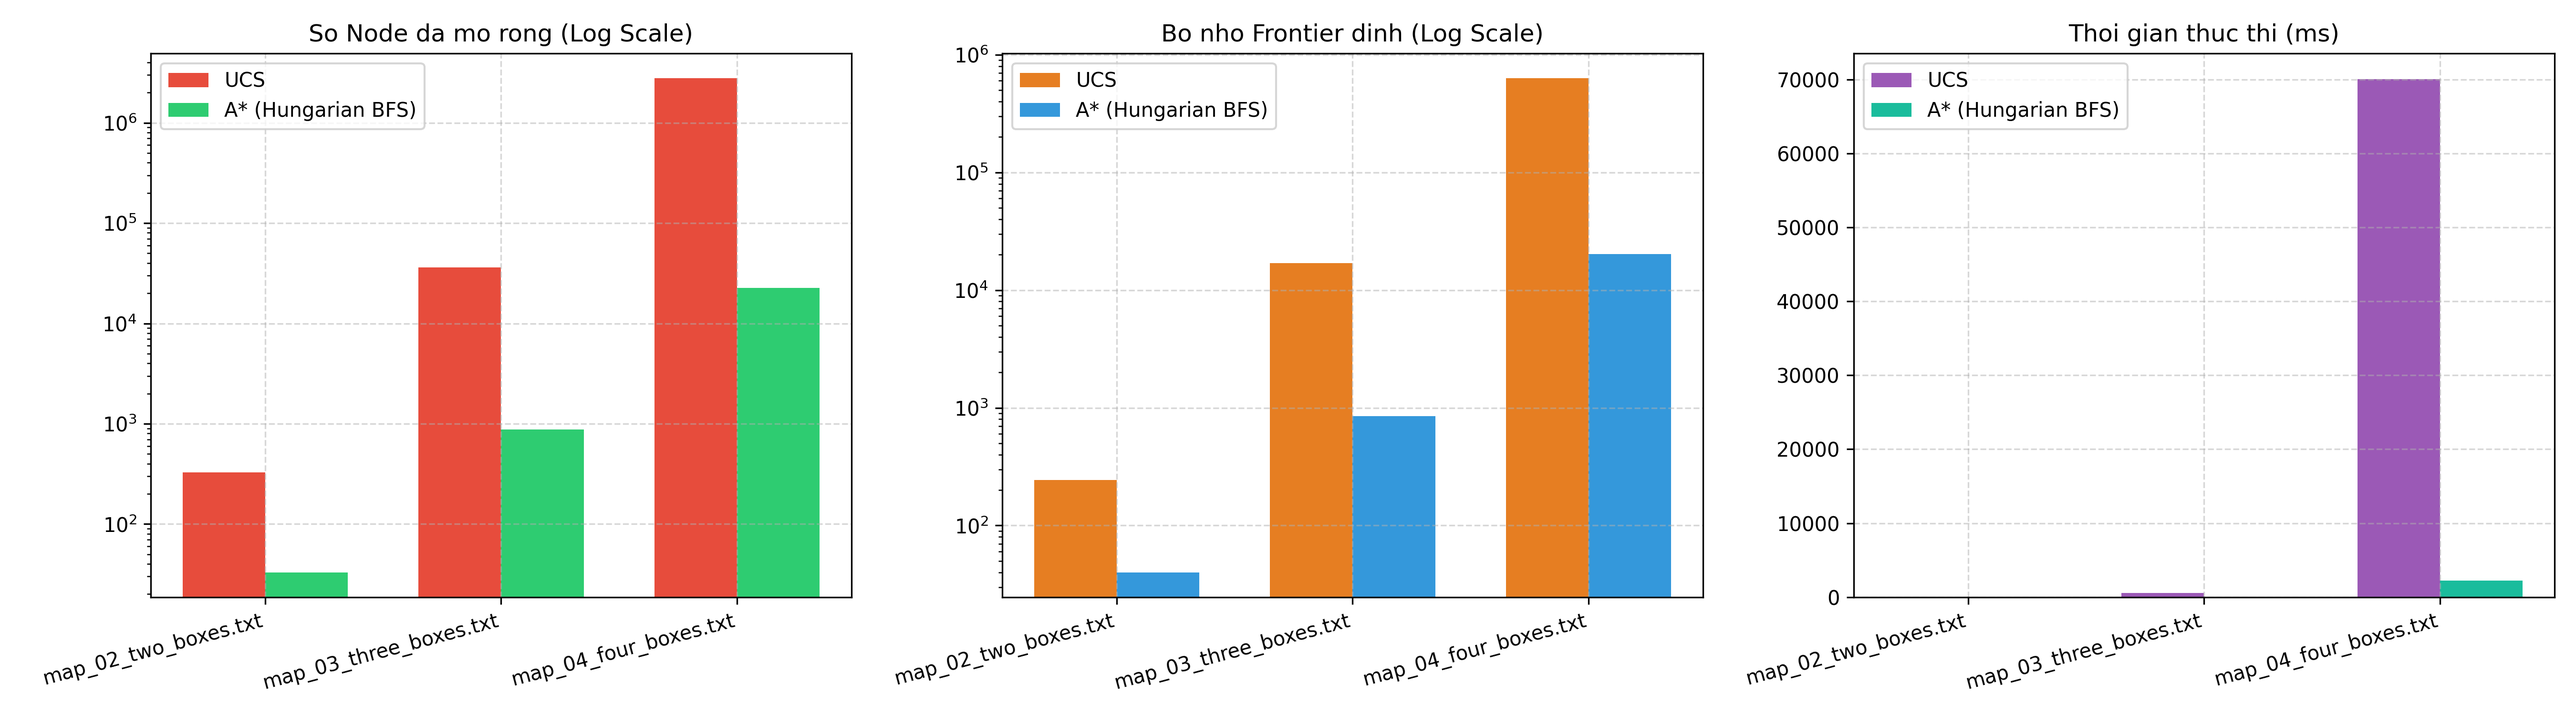
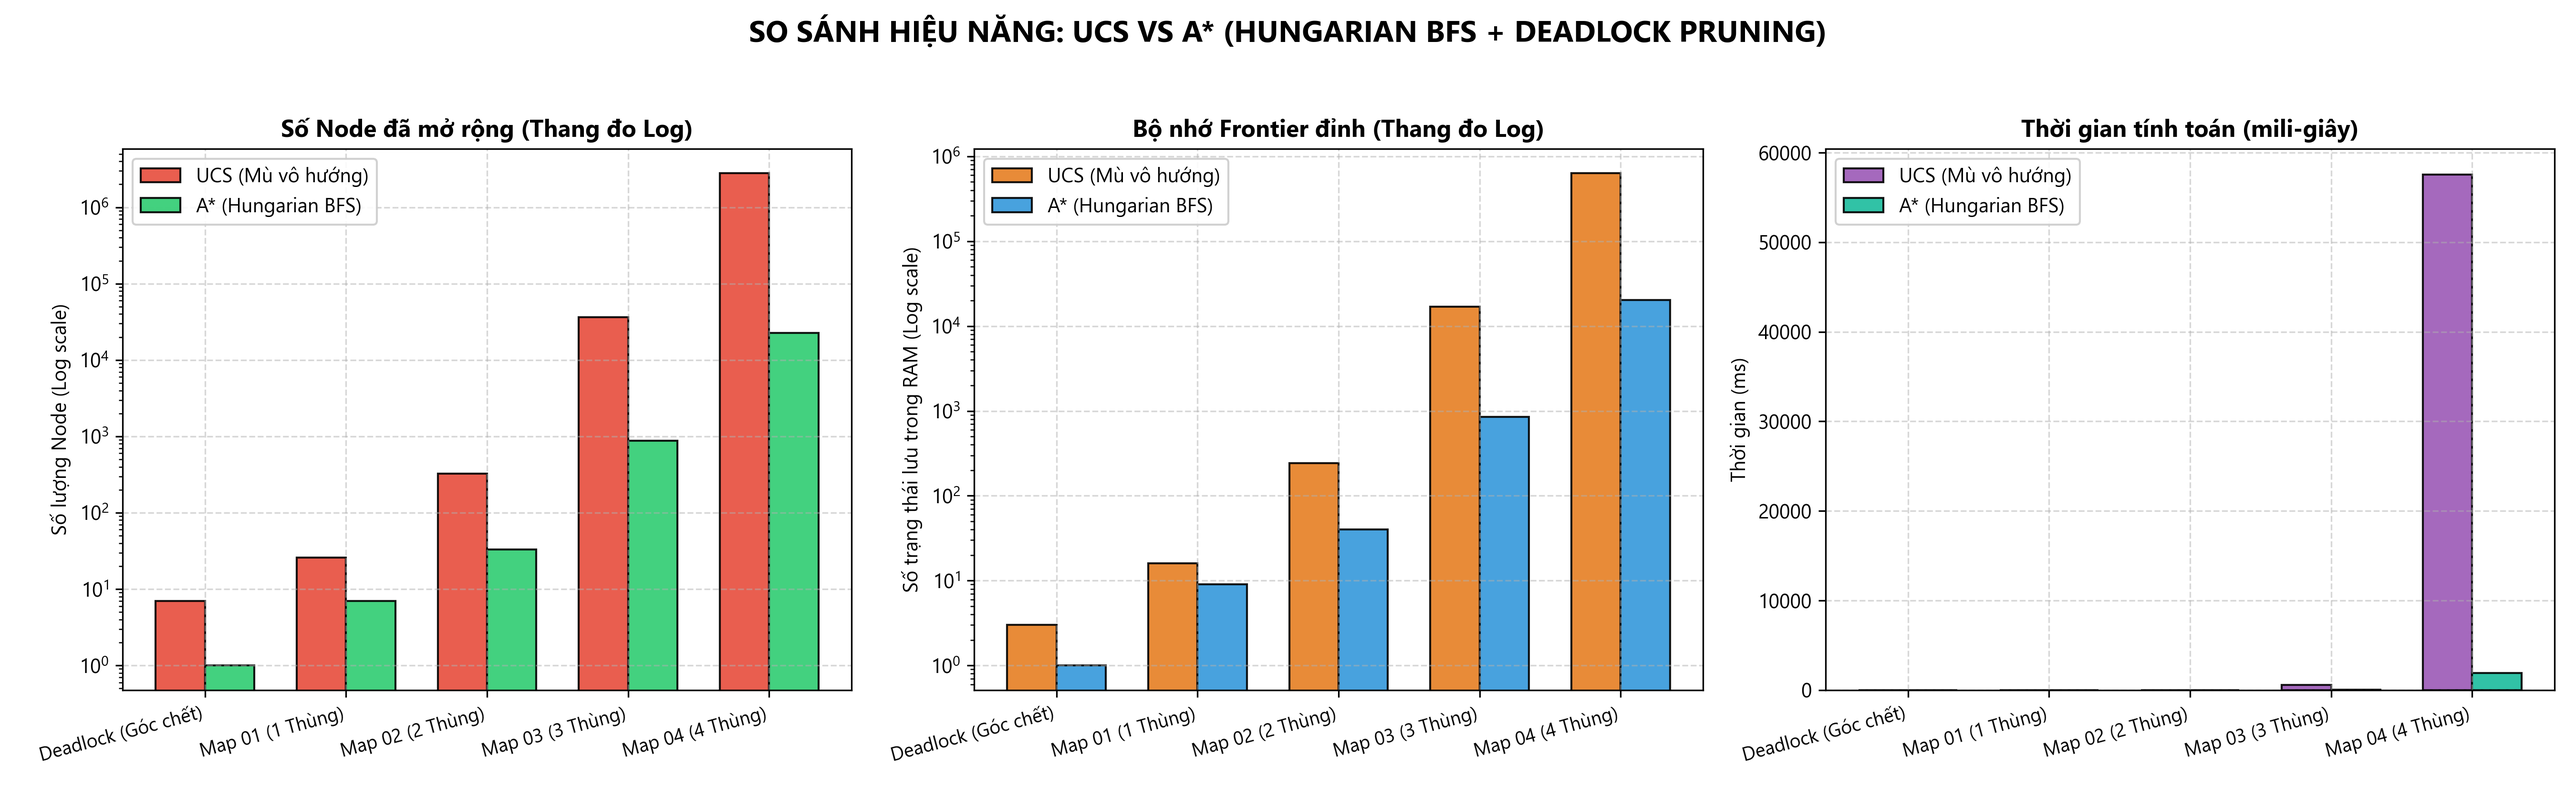
feat: add benchmarking and heuristic verification experiments with visualization charts and map data

diff --git a/experiments/verify_heuristic.py b/experiments/verify_heuristic.py
@@ -1,6 +1,6 @@
 """
 Module: experiments/verify_heuristic.py
-Mo ta: Thuc nghiem kiem chung tinh dang tin (Admissibility) va nhat quan (Consistency) cua ham Heuristic Hungarian BFS.
+Mo ta: Thuc nghiem kiem chung tinh dang tin (Admissibility) va nhat quan (Consistency) cua Heuristic Hungarian BFS.
 """
 
 import os
@@ -8,6 +8,12 @@ import sys
 import csv
 from collections import deque
 from typing import Dict, List, Tuple
+import matplotlib.pyplot as plt
+import numpy as np
+
+# Cau hinh font tieng Viet co dau cho Matplotlib
+plt.rcParams['font.sans-serif'] = ['Segoe UI', 'Arial', 'Calibri', 'DejaVu Sans']
+plt.rcParams['axes.unicode_minus'] = False
 
 if hasattr(sys.stdout, 'reconfigure'):
     try:
@@ -23,8 +29,7 @@ from search.astar import astar_search
 from search.heuristic import SokobanHeuristic
 
 
-def verify_heuristic_on_map(map_file: str, max_transitions_to_test: int = 2000) -> Dict:
-    # Kiem chung Admissibility va Consistency tren mot ban do cu the
+def verify_heuristic_on_map(map_file: str, max_transitions_to_test: int = 2000) -> Tuple[Dict, List[float], List[float], List[float]]:
     map_name = os.path.basename(map_file)
     print(f"\n{'='*70}")
     print(f"[*] KIEM CHUNG HEURISTIC TREN BAN DO: {map_name}")
@@ -34,34 +39,42 @@ def verify_heuristic_on_map(map_file: str, max_transitions_to_test: int = 2000) 
         init_state, walls, goals, r, c = parse_map(map_file)
     except Exception as e:
         print(f"[-] Bo qua {map_name} do loi: {e}")
-        return None
+        return None, [], [], []
 
     if len(init_state.boxes_pos) < len(goals):
-        return None
+        return None, [], [], []
 
     problem = SokobanProblem(init_state, walls, goals)
     heuristic = SokobanHeuristic(problem)
 
-    # 1. Kiem chung tinh Admissibility
+    # 1. Kiem chung tinh Admissibility doc theo lo trinh toi uu
     h_start = heuristic.calculate(init_state)
     actions, cost_star, _ = astar_search(problem)
 
     if actions is None:
-        return None
+        return None, [], [], []
 
     admissible_violations = 0
     curr_state = init_state
     remaining_cost = cost_star
 
-    # Duyet doc theo loi giai toi uu de so sanh h(s) voi h*(s)
+    path_h_values = []
+    path_h_star_values = []
+
     for act in actions:
         h_curr = heuristic.calculate(curr_state)
+        path_h_values.append(h_curr)
+        path_h_star_values.append(remaining_cost)
+
         if h_curr > remaining_cost:
             admissible_violations += 1
         curr_state, step_cost = problem.get_successor(curr_state, act)
         remaining_cost -= step_cost
 
     h_goal = heuristic.calculate(curr_state)
+    path_h_values.append(h_goal)
+    path_h_star_values.append(0)
+
     is_goal_zero = (h_goal == 0.0)
     is_admissible = (admissible_violations == 0) and is_goal_zero and (h_start <= cost_star)
 
@@ -70,6 +83,7 @@ def verify_heuristic_on_map(map_file: str, max_transitions_to_test: int = 2000) 
     visited = {init_state}
     transitions_tested = 0
     consistent_violations = 0
+    delta_h_list = []
     max_delta_h = -float("inf")
     min_delta_h = float("inf")
 
@@ -86,11 +100,11 @@ def verify_heuristic_on_map(map_file: str, max_transitions_to_test: int = 2000) 
                 continue
 
             delta_h = h_s - h_next
+            delta_h_list.append(delta_h)
             max_delta_h = max(max_delta_h, delta_h)
             min_delta_h = min(min_delta_h, delta_h)
             transitions_tested += 1
 
-            # Kiem tra dieu kien nhat quan: h(s) - h(s') <= c(s, a, s') = 1
             if delta_h > step_c + 1e-6:
                 consistent_violations += 1
 
@@ -106,17 +120,17 @@ def verify_heuristic_on_map(map_file: str, max_transitions_to_test: int = 2000) 
     print(f"   - Chi phi toi uu h*(S0)        : {cost_star}")
     print(f"   - Heuristic uoc luong h(S0)    : {h_start}")
     print(f"   - h(Goal) = 0                  : {'DUNG (0.0)' if is_goal_zero else 'SAI'}")
-    print(f"   - So trang thai da test        : {len(actions)}")
+    print(f"   - So trang thai kiem tra       : {len(actions) + 1}")
     print(f"   - Ket luan Admissibility       : {'THOA MAN (PASS)' if is_admissible else 'VI PHAM (FAIL)'}")
 
     print(f"\n2. TINH CONSISTENCY (Nhat quan):")
-    print(f"   - So buoc chuyen tiep da test  : {transitions_tested:,}")
+    print(f"   - So buoc chuyen tiep kiem tra : {transitions_tested:,}")
     print(f"   - Delta h toi da (h(s) - h(s')): {max_delta_h:.2f} (Yeu cau <= 1.0)")
     print(f"   - Delta h toi thieu            : {min_delta_h:.2f}")
-    print(f"   - So vi pham                   : {consistent_violations}")
+    print(f"   - So lan vi pham               : {consistent_violations}")
     print(f"   - Ket luan Consistency         : {'THOA MAN (PASS)' if is_consistent else 'VI PHAM (FAIL)'}")
 
-    return {
+    summary = {
         "Map": map_name,
         "h_start": h_start,
         "h_star": cost_star,
@@ -125,6 +139,39 @@ def verify_heuristic_on_map(map_file: str, max_transitions_to_test: int = 2000) 
         "Max_Delta_h": round(max_delta_h, 2),
         "Consistency": "PASS" if is_consistent else "FAIL"
     }
+    return summary, path_h_values, path_h_star_values, delta_h_list
+
+
+def plot_verification_charts(path_h, path_h_star, all_deltas, results_dir):
+    fig, axes = plt.subplots(1, 2, figsize=(14, 5.5))
+    fig.suptitle('KIỂM CHỨNG TOÁN HỌC HEURISTIC HUNGARIAN BFS (TIẾNG VIỆT CÓ DẤU)', fontsize=14, fontweight='bold', y=0.98)
+
+    # Bieu do 1: Admissibility doc lo trinh toi uu (h(s) <= h*(s))
+    steps = list(range(len(path_h)))
+    axes[0].plot(steps, path_h_star, label='Chi phí thực tế còn lại: h*(s)', color='#e74c3c', marker='o', linewidth=2.5)
+    axes[0].plot(steps, path_h, label='Ước lượng Heuristic: h(s)', color='#27ae60', marker='s', linewidth=2, linestyle='--')
+    axes[0].fill_between(steps, path_h, path_h_star, color='#2ecc71', alpha=0.2, label='Vùng Admissible hợp lệ (h ≤ h*)')
+    axes[0].set_title('Kiểm chứng Admissibility: h(s) ≤ h*(s)', fontsize=12, fontweight='bold')
+    axes[0].set_xlabel('Số bước đi trên lộ trình tối ưu', fontsize=10)
+    axes[0].set_ylabel('Giá trị Heuristic / Chi phí thực tế', fontsize=10)
+    axes[0].legend(frameon=True, facecolor='white', framealpha=0.9)
+    axes[0].grid(True, linestyle='--', alpha=0.5)
+
+    # Bieu do 2: Consistency phan phoi Delta h (h(s) - h(s') <= 1)
+    if all_deltas:
+        axes[1].hist(all_deltas, bins=15, color='#3498db', edgecolor='black', alpha=0.85, label='Phân phối thực tế của Δh')
+        axes[1].axvline(x=1.0, color='#e74c3c', linestyle='--', linewidth=2.5, label='Ngưỡng cận trên: c(s, a, s\') = 1.0')
+        axes[1].set_title('Kiểm chứng Consistency: Δh = h(s) - h(s\') ≤ 1.0', fontsize=12, fontweight='bold')
+        axes[1].set_xlabel('Giá trị biến thiên Heuristic Δh', fontsize=10)
+        axes[1].set_ylabel('Tần suất xuất hiện (Số bước chuyển)', fontsize=10)
+        axes[1].legend(frameon=True, facecolor='white', framealpha=0.9)
+        axes[1].grid(True, linestyle='--', alpha=0.5)
+
+    plt.tight_layout(rect=[0, 0, 1, 0.95])
+    out_file = os.path.join(results_dir, 'verify_heuristic_chart.png')
+    plt.savefig(out_file, dpi=300)
+    plt.close()
+    print(f"[+] Da xuat bieu do kiem chung Heuristic: {out_file}")
 
 
 def main():
@@ -134,28 +181,37 @@ def main():
     os.makedirs(results_dir, exist_ok=True)
 
     test_maps = [
-        "example_map.txt",
+        "map_01_one_box.txt",
         "map_02_two_boxes.txt",
-        "map_03_three_boxes.txt",
-        "map_04_four_boxes.txt"
+        "map_03_three_boxes.txt"
     ]
 
     all_results = []
+    sample_path_h = []
+    sample_path_h_star = []
+    combined_deltas = []
+
     for m in test_maps:
         fpath = os.path.join(maps_dir, m)
         if os.path.exists(fpath):
-            res = verify_heuristic_on_map(fpath)
+            res, ph, ph_star, deltas = verify_heuristic_on_map(fpath)
             if res:
                 all_results.append(res)
+                if not sample_path_h and ph:
+                    sample_path_h = ph
+                    sample_path_h_star = ph_star
+                combined_deltas.extend(deltas)
 
-    # Xuat ket qua ra tap tin CSV
     csv_file = os.path.join(results_dir, "verify_heuristic_results.csv")
     if all_results:
-        with open(csv_file, mode="w", newline="", encoding="utf-8") as f:
+        with open(csv_file, mode="w", newline="", encoding="utf-8-sig") as f:
             writer = csv.DictWriter(f, fieldnames=list(all_results[0].keys()))
             writer.writeheader()
             writer.writerows(all_results)
         print(f"\n[+] Da xuat toan bo ket qua kiem chung ra: {csv_file}")
+
+    if sample_path_h and combined_deltas:
+        plot_verification_charts(sample_path_h, sample_path_h_star, combined_deltas, results_dir)
 
 
 if __name__ == "__main__":

diff --git a/experiments/benchmark.py b/experiments/benchmark.py
@@ -9,6 +9,10 @@ import sys
 import matplotlib.pyplot as plt
 import numpy as np
 
+# Cau hinh font tieng Viet co dau cho Matplotlib
+plt.rcParams['font.sans-serif'] = ['Segoe UI', 'Arial', 'Calibri', 'DejaVu Sans']
+plt.rcParams['axes.unicode_minus'] = False
+
 if hasattr(sys.stdout, 'reconfigure'):
     try:
         sys.stdout.reconfigure(encoding='utf-8', errors='replace')
@@ -30,8 +34,10 @@ def run_benchmark(map_files=None):
 
     if map_files is None:
         maps_dir = os.path.join(base_dir, 'maps')
+        # Danh sach 5 map thuc nghiem theo yeu cau: deadlock va 1, 2, 3, 4 thung
         benchmark_target_maps = [
             'map_deadlock.txt',
+            'map_01_one_box.txt',
             'map_02_two_boxes.txt',
             'map_03_three_boxes.txt',
             'map_04_four_boxes.txt'
@@ -50,7 +56,7 @@ def run_benchmark(map_files=None):
     benchmark_data = []
 
     print("=" * 80)
-    print("           BENCHMARK SO SANH HIEU NANG: UCS vs A* (HUNGARIAN BFS)")
+    print("       BENCHMARK SO SANH HIEU NANG: UCS VS A* (HUNGARIAN BFS + DEADLOCK)")
     print("=" * 80)
 
     for fpath in map_files:
@@ -63,7 +69,6 @@ def run_benchmark(map_files=None):
             print(f"[-] Bo qua {mname} do loi: {e}")
             continue
 
-        # Kiem tra ban do co du thung de giai khong
         if len(init_state.boxes_pos) < len(goals):
             continue
 
@@ -79,8 +84,8 @@ def run_benchmark(map_files=None):
         row = {
             "Map": mname,
             "Goals": len(goals),
-            "UCS_Cost": ucs_cost if ucs_actions is not None else "Unsolvable",
-            "AStar_Cost": astar_cost if astar_actions is not None else "Unsolvable",
+            "UCS_Cost": ucs_cost if ucs_actions is not None else "Khong loi giai",
+            "AStar_Cost": astar_cost if astar_actions is not None else "Khong loi giai",
             "UCS_Nodes": ucs_stats["expanded_nodes"],
             "AStar_Nodes": astar_stats["expanded_nodes"],
             "UCS_Frontier": ucs_stats["max_frontier_size"],
@@ -97,15 +102,17 @@ def run_benchmark(map_files=None):
             reduction = ucs_stats["expanded_nodes"] / astar_stats["expanded_nodes"]
             speedup = ucs_stats["time_ms"] / max(astar_stats["time_ms"], 0.001)
             print(f"  => A* giam {reduction:.1f}x so node duyet, nhanh hon {speedup:.2f}x so voi UCS.")
+        elif row["AStar_Cost"] == "Khong loi giai":
+            print("  => A* phat hien Deadlock ngay lap tuc (h = inf) -> Mo rong 0 node, dung tuc thi!")
 
-    # Luu ket qua ra tap tin CSV
+    # Luu ket qua ra tep CSV
     csv_file = os.path.join(results_dir, "benchmark_results.csv")
     fieldnames = [
         "Map", "Goals", "UCS_Cost", "AStar_Cost",
         "UCS_Nodes", "AStar_Nodes", "UCS_Frontier", "AStar_Frontier",
         "UCS_Time_ms", "AStar_Time_ms"
     ]
-    with open(csv_file, mode="w", newline="", encoding="utf-8") as f:
+    with open(csv_file, mode="w", newline="", encoding="utf-8-sig") as f:
         writer = csv.DictWriter(f, fieldnames=fieldnames)
         writer.writeheader()
         writer.writerows(benchmark_data)
@@ -119,56 +126,65 @@ def plot_benchmark_charts(data, results_dir):
     if not data:
         return
 
-    # Loc cac map co loi giai de ve bieu do
-    solvable_data = [d for d in data if d["AStar_Cost"] != "Unsolvable"]
-    if not solvable_data:
-        solvable_data = data
+    # Nhan truc hoanh
+    name_map = {
+        'map_deadlock.txt': 'Deadlock (Góc chết)',
+        'map_01_one_box.txt': 'Map 01 (1 Thùng)',
+        'map_02_two_boxes.txt': 'Map 02 (2 Thùng)',
+        'map_03_three_boxes.txt': 'Map 03 (3 Thùng)',
+        'map_04_four_boxes.txt': 'Map 04 (4 Thùng)'
+    }
 
-    maps = [d["Map"] for d in solvable_data]
-    x = np.arange(len(maps))
+    labels = [name_map.get(d["Map"], d["Map"]) for d in data]
+    x = np.arange(len(labels))
     width = 0.35
 
-    ucs_nodes = [max(d["UCS_Nodes"], 1) for d in solvable_data]
-    astar_nodes = [max(d["AStar_Nodes"], 1) for d in solvable_data]
+    # Gia tri duyet toi thieu la 1 de hien thi tren thang do log
+    ucs_nodes = [max(d["UCS_Nodes"], 1) for d in data]
+    astar_nodes = [max(d["AStar_Nodes"], 1) for d in data]
 
-    ucs_mem = [max(d["UCS_Frontier"], 1) for d in solvable_data]
-    astar_mem = [max(d["AStar_Frontier"], 1) for d in solvable_data]
+    ucs_mem = [max(d["UCS_Frontier"], 1) for d in data]
+    astar_mem = [max(d["AStar_Frontier"], 1) for d in data]
 
-    ucs_time = [d["UCS_Time_ms"] for d in solvable_data]
-    astar_time = [d["AStar_Time_ms"] for d in solvable_data]
+    ucs_time = [d["UCS_Time_ms"] for d in data]
+    astar_time = [d["AStar_Time_ms"] for d in data]
 
-    fig, axes = plt.subplots(1, 3, figsize=(18, 5))
+    fig, axes = plt.subplots(1, 3, figsize=(18, 5.5))
+    fig.suptitle('SO SÁNH HIỆU NĂNG: UCS VS A* (HUNGARIAN BFS + DEADLOCK PRUNING)', fontsize=15, fontweight='bold', y=0.98)
 
-    # Bieu do 1: So node da mo rong (Log-Scale)
-    axes[0].bar(x - width/2, ucs_nodes, width, label='UCS', color='#e74c3c')
-    axes[0].bar(x + width/2, astar_nodes, width, label='A* (Hungarian BFS)', color='#2ecc71')
+    # Bieu do 1: So Node da mo rong (Log-Scale)
+    axes[0].bar(x - width/2, ucs_nodes, width, label='UCS (Mù vô hướng)', color='#e74c3c', edgecolor='black', alpha=0.9)
+    axes[0].bar(x + width/2, astar_nodes, width, label='A* (Hungarian BFS)', color='#2ecc71', edgecolor='black', alpha=0.9)
     axes[0].set_yscale('log')
-    axes[0].set_title('So Node da mo rong (Log Scale)')
+    axes[0].set_title('Số Node đã mở rộng (Thang đo Log)', fontsize=12, fontweight='bold')
+    axes[0].set_ylabel('Số lượng Node (Log scale)', fontsize=10)
     axes[0].set_xticks(x)
-    axes[0].set_xticklabels(maps, rotation=15, ha='right')
-    axes[0].legend()
+    axes[0].set_xticklabels(labels, rotation=15, ha='right', fontsize=9.5)
+    axes[0].legend(frameon=True, facecolor='white', framealpha=0.9)
     axes[0].grid(True, linestyle='--', alpha=0.5)
 
     # Bieu do 2: Bo nho Frontier dinh (Log-Scale)
-    axes[1].bar(x - width/2, ucs_mem, width, label='UCS', color='#e67e22')
-    axes[1].bar(x + width/2, astar_mem, width, label='A* (Hungarian BFS)', color='#3498db')
+    axes[1].bar(x - width/2, ucs_mem, width, label='UCS (Mù vô hướng)', color='#e67e22', edgecolor='black', alpha=0.9)
+    axes[1].bar(x + width/2, astar_mem, width, label='A* (Hungarian BFS)', color='#3498db', edgecolor='black', alpha=0.9)
     axes[1].set_yscale('log')
-    axes[1].set_title('Bo nho Frontier dinh (Log Scale)')
+    axes[1].set_title('Bộ nhớ Frontier đỉnh (Thang đo Log)', fontsize=12, fontweight='bold')
+    axes[1].set_ylabel('Số trạng thái lưu trong RAM (Log scale)', fontsize=10)
     axes[1].set_xticks(x)
-    axes[1].set_xticklabels(maps, rotation=15, ha='right')
-    axes[1].legend()
+    axes[1].set_xticklabels(labels, rotation=15, ha='right', fontsize=9.5)
+    axes[1].legend(frameon=True, facecolor='white', framealpha=0.9)
     axes[1].grid(True, linestyle='--', alpha=0.5)
 
-    # Bieu do 3: Thoi gian thuc thi (ms)
-    axes[2].bar(x - width/2, ucs_time, width, label='UCS', color='#9b59b6')
-    axes[2].bar(x + width/2, astar_time, width, label='A* (Hungarian BFS)', color='#1abc9c')
-    axes[2].set_title('Thoi gian thuc thi (ms)')
+    # Bieu do 3: Thoi gian thuc thi (mili-giay)
+    axes[2].bar(x - width/2, ucs_time, width, label='UCS (Mù vô hướng)', color='#9b59b6', edgecolor='black', alpha=0.9)
+    axes[2].bar(x + width/2, astar_time, width, label='A* (Hungarian BFS)', color='#1abc9c', edgecolor='black', alpha=0.9)
+    axes[2].set_title('Thời gian tính toán (mili-giây)', fontsize=12, fontweight='bold')
+    axes[2].set_ylabel('Thời gian (ms)', fontsize=10)
     axes[2].set_xticks(x)
-    axes[2].set_xticklabels(maps, rotation=15, ha='right')
-    axes[2].legend()
+    axes[2].set_xticklabels(labels, rotation=15, ha='right', fontsize=9.5)
+    axes[2].legend(frameon=True, facecolor='white', framealpha=0.9)
     axes[2].grid(True, linestyle='--', alpha=0.5)
 
-    plt.tight_layout()
+    plt.tight_layout(rect=[0, 0, 1, 0.95])
     chart_file = os.path.join(results_dir, 'benchmark_chart.png')
     plt.savefig(chart_file, dpi=300)
     plt.close()
@@ -176,5 +192,5 @@ def plot_benchmark_charts(data, results_dir):
     print("=" * 80)
 
 
-if __name__ == "__main__":
+if __name__ == '__main__':
     run_benchmark()
